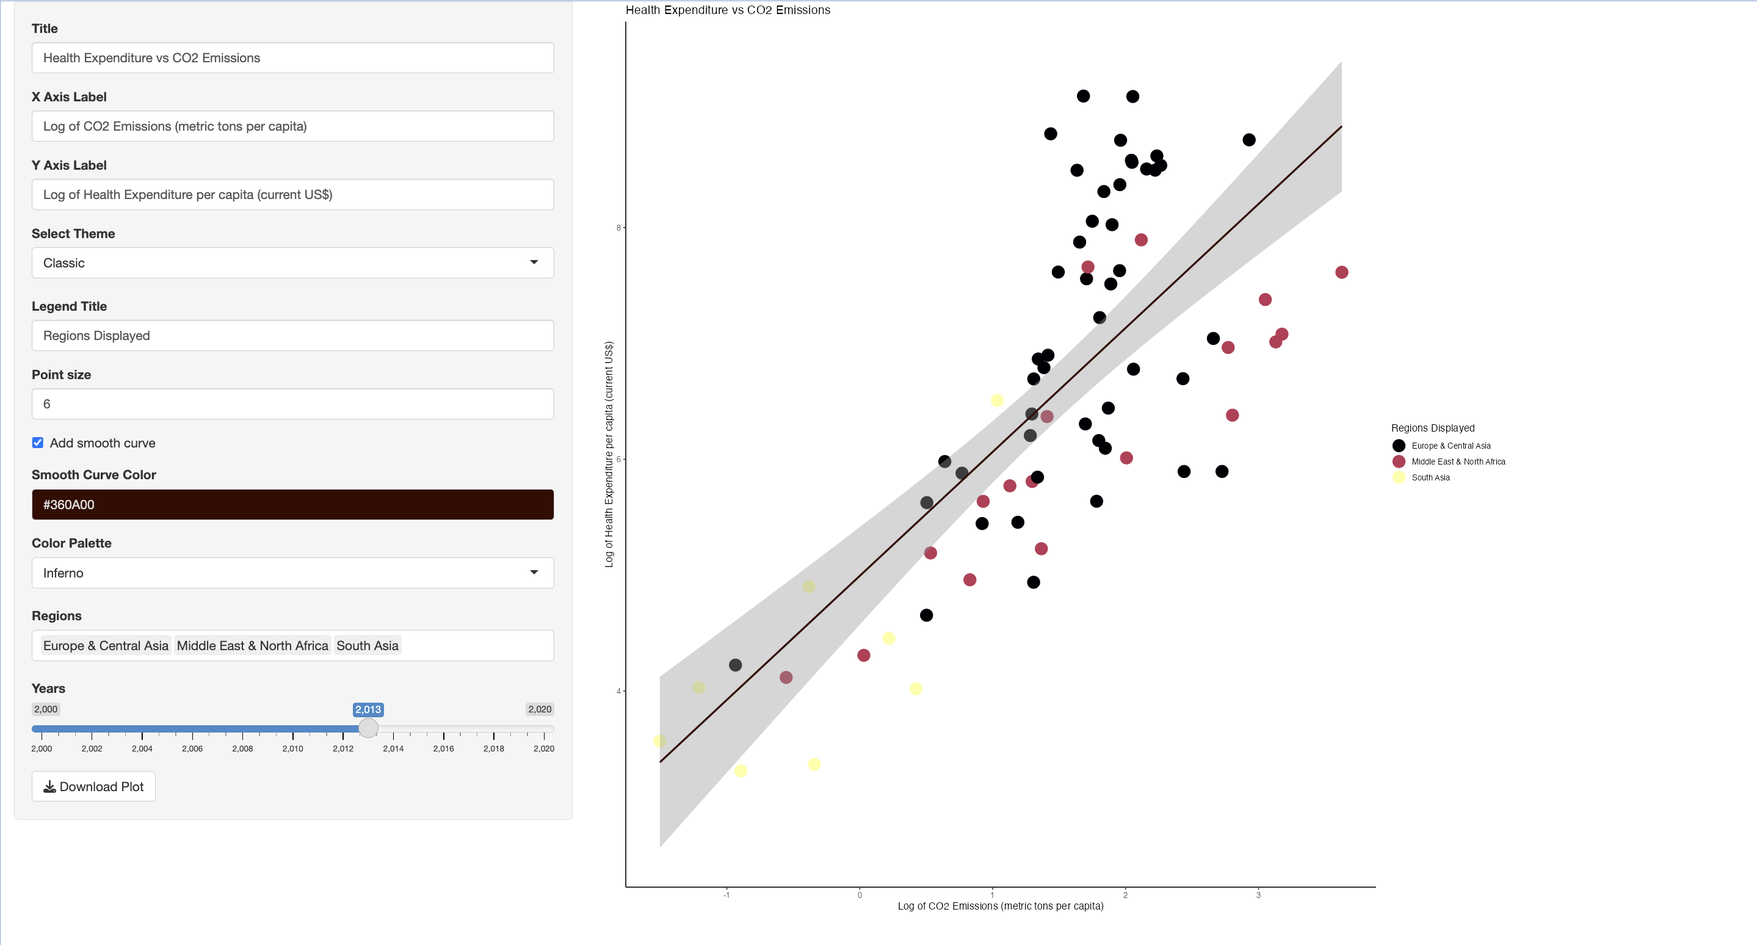
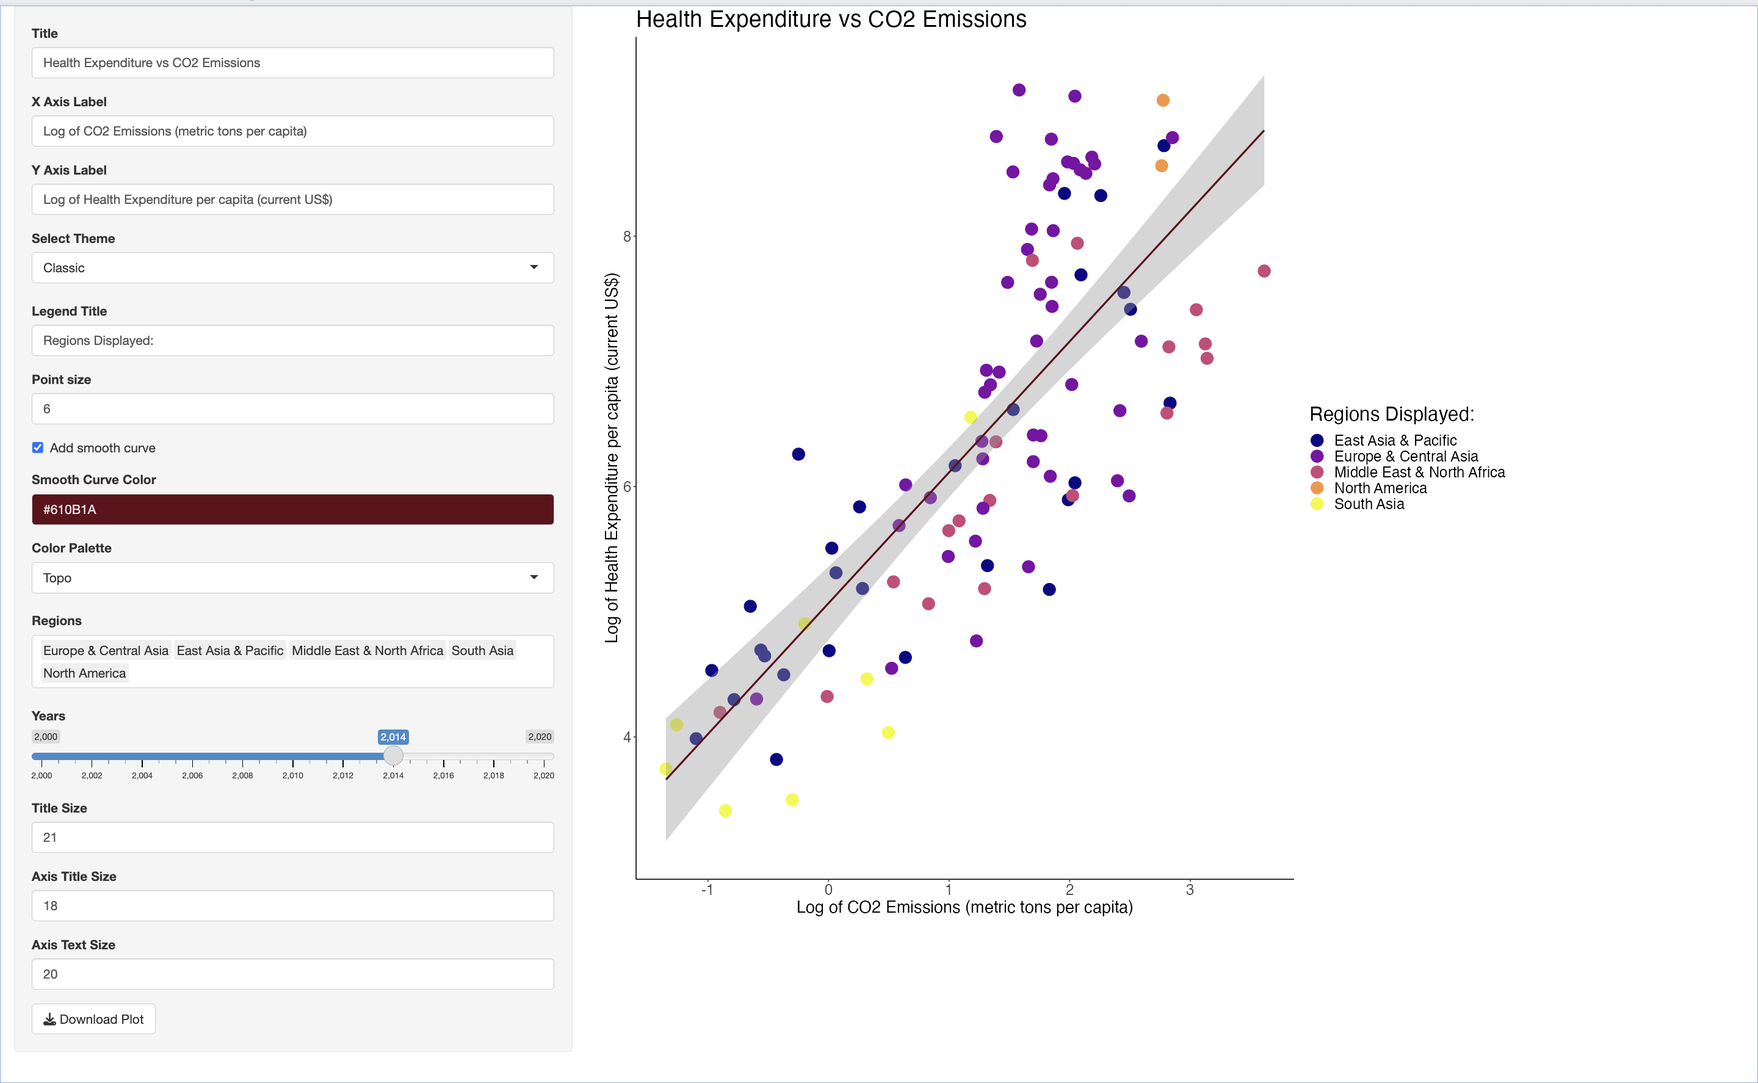
- Update of New BB
- Update advanced case
- Added some tip boxes

diff --git a/content/building-blocks/store-and-document-your-data/r-shiny/perfect-plot-shiny.md b/content/building-blocks/store-and-document-your-data/r-shiny/perfect-plot-shiny.md
@@ -13,16 +13,16 @@ aliases:
 ---
 
 ## Overview
-In this article, we explore a hands-on application of R Shiny's `reactivity` feature through a practical example: constructing live your “perfect” plot. While the concept of `reactivity` in R Shiny has been discussed in this [article](/shiny/reactivity), here we bring it to life by demonstrating how it enables the real-time creation and refinement of data visualizations. 
+In this article, we explore a hands-on application of R Shiny's `reactivity` feature through a practical example: constructing live your “perfect” plot. While the concept of `reactivity` in R Shiny has been discussed in this [article](/shiny/reactivity), here we bring it to life by demonstrating how it enables the real-time creation of data visualizations. Thereby allowing users to construct and customize their own plots live within the app.  
 
-We'll delve into the global relationship between health expenditure (per capita, in current US dollars) and CO2 emissions (metric tons per capita) using a dataset from the World Bank. Through this analysis, we aim to explore potential correlations between a nation's healthcare spending and its environmental footprint. 
+We'll walk you through a step-by-step process of building your 'perfect plot', using Shiny's responsive `widgets` like sliders, dropdowns, and color pickers. Thereby looking at adjustments of the colors, size and even themes in one go. 
 
-We'll walk you through a step-by-step process of building your 'perfect plot', using Shiny's responsive `widgets` like sliders, dropdowns, and color pickers.
+### Dataset Introduction
+We will use a dataset from the World Bank, to examine the relationship between health expenditure and CO2 emissions per country. Through this analysis, we aim to explore if there are any correlations between a nation's healthcare spending and its environmental footprint. 
 
-### Load the dataset
 {{% codeblock %}}
 ```R
-# Install the WDI package for World Bank data
+# Install the WDI package for the World Bank data
 install.packages("WDI")
 library(WDI)
 
@@ -37,41 +37,46 @@ data$year <- as.numeric(data$year)
 ```
 {{% /codeblock %}}
 
-## Adding Inputs to Modify a Plot
+## Interactive Plot Customization
 
-### Add a plot title: Text Input
-The` textInput` widget is used to create an interactive text input field in the Shiny user interface.    
+### Text Input: Personalizing Plot Titles
+The `textInput` widget is used to create an interactive text input field in the Shiny user interface.    
 Its basic syntax is `textInput(inputId, label, value)`, where: `inputId` is a unique identifier for the widget. `label` provides a descriptive label for the input field. `value` sets an initial default text within the field, which is useful for initializing your app with pre-defined settings. 
+
 
 {{% codeblock %}}
 
 ```R
-# Load ggplot2 for plotting functionalities
+# Incorporating ggplot2 for advanced plotting capabilities
 library(ggplot2)
 
-# UI setup: Includes a sidebar panel with a text input for entering the plot title
+# Structuring the UI: A sidebar panel with text input for the plot title
 ui <- fluidPage(
   sidebarLayout(
     sidebarPanel(
+      # Text input for dynamic plot title customization
       textInput("title", "Title", "Health Expenditure vs CO2 Emissions")
     ),
     mainPanel(
+      # Display area for the plot
       plotOutput("plot")
     )
   )
 )
 
-# Server logic: Reflects the entered title on the plot dynamically
+# Server-side logic: Dynamically updates the plot title based on user input
 server <- function(input, output) {
   output$plot <- renderPlot({
+    # Constructing the plot with user-defined title
     ggplot(data, aes(x = log(EN.ATM.CO2E.PC), y = log(SH.XPD.CHEX.PC.CD))) +
     geom_point() +
-    ggtitle(input$title)  # Updates the plot title based on user input
+    ggtitle(input$title)  # Reflecting the title input in the plot
   })
 }
 
-# Run the Shiny application
+# Initiating the Shiny app with defined UI and server components
 shinyApp(ui = ui, server = server)
+
 ```
 {{% /codeblock %}}
 
@@ -79,34 +84,24 @@ shinyApp(ui = ui, server = server)
 <img src = "../images/perfect-plot-1.png" width="600">
 </p>
 
-### Change the Point Size: numeric input
-The `numericInput` widget in Shiny facilitates the creation of input fields specifically for numeric values. Its syntax extends beyond that of the `textInput` widget, including additional arguments like min and max. 
-The syntax is `numericInput(inputId, label, value, min, max, step)`, where:
-- `min` and `max` define the minimum and maximum values that can be entered.
-- `step` determines the increment between each value in the input (optional).
-
-{{% tip %}}
-**Shiny's Intelligent Input Handling**
-
-Shiny's is designed to recognize the type of user input and manage it accordingly in the server-side code. This ensures that the data type of the input is maintained throughout the application. For instance, if a numeric input with the ID size is used, accessing `input$size` in the server code will automatically return a numeric value. This feature of Shiny significantly simplifies data handling and ensures type consistency.
-
-{{% /tip %}}
+### Numeric Input: Adjusting Point Sizes
+The numericInput widget in Shiny is aimed for numerical user inputs. Its syntax, `numericInput(inputId, label, value, min, max, step)`, includes parameters for setting minimum (min) and maximum (max) values, and an optional `step` parameter to define the steps between values. This widget is particularly useful for fine-tuning graphical elements like point sizes in plots.
 
 {{% codeblock %}}
 ```R
-# Inside your existing UI setup
+# Add to your existing UI setup
 sidebarPanel(
-  # Other input elements
-  numericInput("size", "Point size", value = 1, min = 1, max = 10, step = 1)  # Numeric input for adjusting point size
-  # Any other elements
+  # Numeric input for point size control
+  numericInput("size", "Point Size", value = 1, min = 1, max = 10, step = 1)
+  # Additional UI elements
 )
 
-# Inside your existing server function
+# Update your server function
 server <- function(input, output) {
   output$plot <- renderPlot({
-    # Existing plotting code
-    geom_point(size = input$size)  # Adjust point size dynamically based on input
-    # Any additional plot customization
+    # Previous plot code
+    geom_point(size = input$size)  # Dynamically adjusts point size
+    # Additional plot modifications
   })
 }
 ```
@@ -116,27 +111,30 @@ server <- function(input, output) {
 <img src = "../images/perfect-plot-2.png" width="600">
 </p>
 
-### Fit a smooth curve: checkbox input
-The `checkboxInput` widget, which is distinct in its binary nature, is limited to only two possible values: TRUE or FALSE. This widget is ideal for scenarios requiring a simple yes/no or on/off decision from the user. 
+{{% tip %}}
+**Understanding Shiny's Input Handling**
 
-The `checkboxInput` function in Shiny is used to create this widget, and it includes a `value` parameter that determines its initial state. This parameter accepts only two values: TRUE or FALSE. Setting it to TRUE means the checkbox will be checked by default when the application loads, and conversely, setting it to FALSE will leave it unchecked initially.
+Shiny's is designed to recognize the type of user input and manage it accordingly in the server-side code. This ensures that the data type of the input is maintained throughout the application. For instance, if a numeric input with the ID size is used, accessing `input$size` in the server code will automatically return a numeric value. This feature of Shiny significantly simplifies data handling and ensures type consistency.
 
-The basic syntax of the `checkboxInput` function is `checkboxInput(inputId, label, value)`.
+{{% /tip %}}
+
+### Checkbox Input: Integrating Smooth Curves
+The `checkboxInput` widget in Shiny offers a binary choice (TRUE or FALSE), making it ideal for toggle-like options in your application. The function `checkboxInput(inputId, label, value)` includes a `value` parameter that sets the initial state of the checkbox (checked or unchecked). Setting it to TRUE means the checkbox will be checked by default when the application loads, and conversely, setting it to FALSE will leave it unchecked initially.
 
 {{% codeblock %}}
 ```R
-# Inside your existing UI setup
+# In your existing UI configuration
 sidebarPanel(
-  # Other input elements
-  checkboxInput("fit", "Add smooth curve", FALSE)  # Checkbox for adding a smooth curve
+  # Checkbox for adding a smooth curve
+  checkboxInput("fit", "Add Smooth Curve", FALSE)
 )
 
-# Inside your existing server function
+# Modify your server function
 server <- function(input, output) {
   output$plot <- renderPlot({
-    # Previous plot code
+    # Base plot code
     if (input$fit) {
-      plot <- plot + geom_smooth(method = "lm")  # Adds smooth curve if checked
+      plot <- plot + geom_smooth(method = "lm")  # Conditional smooth curve addition
     }
     plot
   })
@@ -148,10 +146,11 @@ server <- function(input, output) {
 <img src = "../images/perfect-plot-3.png" width="600">
 </p>
 
-## More input types
+### Radio Buttons: Choosing Plot Colors
+Radio buttons in Shiny are ideal for offering multiple options while restricting the user to a single choice. These inputs are particularly effective in scenarios demanding exclusive selection. The radioButtons function is structured with choices to list the options and selected to define the default selection. The syntax, radioButtons(inputId, label, choices, selected), offers simplicity and clarity, ensuring a smooth user experience.
 
-### Add colours to your plot: radio buttons
-`Radio buttons` are used when you want to present multiple options to the user but require them to select only one. This input type is particularly useful for situations where the choice is exclusive and cannot be multiple.
+
+`Radio buttons` are used when you want to present multiple options to the user but restricting them to select only one. This input type is particularly useful for situations where the choice is exclusive and cannot be multiple.
 
 The `radioButtons` function includes a `choices` parameter to define the options available for selection and a `selected` argument to specify which option is selected by default. Unlike other input types, there is no value parameter; the `selected` argument serves a similar purpose, setting the initial state of the selection.
 
@@ -161,20 +160,21 @@ The basic syntax for `radioButtons` is `radioButtons(inputId, label, choices, se
 
 {{% codeblock %}}
 ```R
-# Inside your existing UI setup
+# Add to your existing UI layout
 sidebarPanel(
-  # Other input elements
-  radioButtons("color", "Point color", choices = c("blue", "red", "green", "black"))  # Radio buttons for color selection
+  # Radio buttons for choosing plot colors
+  radioButtons("color", "Point Color", choices = c("Blue", "Red", "Green", "Black"))
 )
 
-# Inside your existing server function
+# Update your server function
 server <- function(input, output) {
   output$plot <- renderPlot({
-    # Previous plot code
-    plot <- plot + geom_smooth(method = "lm", color = input$color)  # Color changes as per selection
-    plot
+    # Your ggplot code
+    # Integrating color selection in the plot
+    plot + geom_smooth(method = "lm", color = input$color)
   })
 }
+
 ```
 {{% /codeblock %}}
 
@@ -182,12 +182,18 @@ server <- function(input, output) {
 <img src = "../images/perfect-plot-4.png" width="600">
 </p>
 
-### Using Select Inputs for Extensive Choice Lists
-`Select inputs`, also known as dropdown lists, are an ideal choice in Shiny when you need to present a user with a long list of options without consuming much screen space. Unlike radio buttons which are best for limited choices due to their space requirements, select inputs neatly encapsulate numerous options within a scrollable dropdown menu.
+{{% tip %}}
+**Quick Troubleshooting for Shiny Widgets**
 
-The `selectInput` widget features the `choices` parameter to list the available options and the `selected` parameter to set the default selected option(s). A significant feature of select inputs is the `multiple` argument. When set to TRUE, it allows users to select more than one value from the list, offering flexibility for user interaction.
+- *Non-Responsive Widgets*: Ensure `inputId` is correctly referenced in the server function and reactive expressions are set up properly.
+- *Data Type Issues*: Check and correct the data type returned by widgets. Convert data types if necessary.
+- *Layout Problems*: Ensure consistent use of layout functions and consider CSS for styling.
+- D*uplicate Input IDs*: Assign unique `inputIds` to each widget to avoid overlap issues.
+  
+{{% /tip %}}
 
-The basic syntax for `selectInput` is `selectInput(inputId, label, choices, selected, multiple)`.
+### Select Inputs: Managing Lengthy Option Lists
+When dealing with a lengthy list of options, `selectInput` or dropdown lists are the most efficient choice. They conserve screen space while offering a comprehensive selection menu. This widget is versatile, allowing for single or multiple selections (controlled by the `multiple` argument). The syntax `selectInput(inputId, label, choices, selected, multiple)` makes it a flexible tool for diverse applications.
 
 {{% codeblock %}}
 ```R
@@ -212,11 +218,11 @@ server <- function(input, output) {
 <img src = "../images/perfect-plot-5.png" width="600">
 </p>
 
-### Using Slider Inputs for Numerical Value Selection in Shiny
-`Slider inputs` are widgets that allow users to select numeric values through a sliding mechanism. They serve a similar purpose to numeric inputs but offer a more interactive and visual approach to value selection. Sliders can be  effective for adjusting parameters within a specific range, such as setting thresholds, defining ranges, or filtering data.
+### Numerical Selection: Single and Range Values
+`Slider inputs` are widgets that allow users to select numeric values through a sliding mechanism. They serve a similar purpose to numeric inputs but offer a more interactive and visual approach to value selection. Sliders can be effective for adjusting parameters within a specific range, such as setting thresholds, defining ranges, or filtering data.
 
 #### Single vs. Range Value Selection with Slider Inputs
-The configuration of the slider input can vary depending on the initial value provided:
+The set up of the `sliderInput` can vary depending on the initial value provided:
 - **Single Value Selection**: If the initial value (specified in the `value` argument) is a single number, the slider is set up for selecting a single numeric value.
 - **Range Value Selection**: If the initial value is a vector of two numbers, the slider allows the selection of a range of values, represented by the two end points of the vector
 
@@ -245,20 +251,15 @@ server <- function(input, output) {
 </p>
 
 {{% tip %}}
-**Remembering Input Arguments** 
+**Exploring Shiny's Widget Options**
 
-Each input type in Shiny comes with its own set of arguments, and it can be challenging to remember all of them. To understand the available arguments for a specific input type, it's advisable to refer to the Shiny documentation or the help files associated with the input functions. 
+The `Shiny Widget Gallery` from RStudio offers a detailed overview of available input widgets in Shiny, including examples and code snippets. This resource is useful for understanding the functionality and appearance of various widgets such as text inputs, sliders, and radio buttons, which can assist in their integration into Shiny applications.
+
 {{% /tip %}}
 
-## Advanced features to improve your plot
+### Colourpicker: Enhancing Color Selection
 
-### Incorporating Color Inputs Using the Colourpicker Package
-While color inputs are not a part of the basic Shiny package, they can be integrated into Shiny applications using the `colourpicker` package. The `colourInput()` function from this package allows users to select colors interactively, adding a visually engaging element to the app. 
-
-The `colourInput()` function is straightforward to use, with its essential arguments being `inputId`, `label`, and `value`:
-- `inputId` is a unique identifier for the color input widget.
-- `label` provides a descriptive title for the color picker.
-- `value` sets the initial color, which can be specified in various formats, including English color names like "red" or "yellow".
+The `colourpicker` package enriches Shiny applications by enabling interactive color selection. The `colourInput()` function is the function to use here, providing a user-friendly color picker. It requires `inputId` for identification, `label` for description, and `value` for setting the initial color, which can be an English color name or a color code.
 
 {{% codeblock %}}
 ```R
@@ -288,10 +289,8 @@ server <- function(input, output) {
 <img src = "../images/perfect-plot-7.png" width="600">
 </p>
 
-### Tailoring Plot Appearance with Output Placeholder Functions
-In Shiny, just like input functions, `output placeholder functions` also come with various arguments that allow you to modify the appearance or behavior of the outputs. This flexibility is particularly useful when you want to customize how data visualizations or other UI elements are displayed in your app.
-
-The `plotOutput()` function, used for displaying plots in a Shiny application, includes parameters to adjust the dimensions of the plot. By default, the `height` of the plot is set to 400 pixels. However, you can easily change this using the `height` and `width` parameters within `plotOutput()`.
+### Adjusting Plot Dimensions
+Shiny's output placeholder functions, like `plotOutput()`, offer parameters to tailor the appearance of outputs. Adjusting `width` and `height` parameters allows for precise control over the dimensions of elements like plots, enhancing their visual appeal and fit within the application layout. By default, the `height` of the plot is set to 400 pixels.
 
 {{% codeblock %}}
 ```R
@@ -307,9 +306,8 @@ mainPanel(
 <img src = "../images/perfect-plot-8.png" width="600">
 </p> 
 
-### Leveraging Plotly for Interactive Data Visualization
-`Plotly`, a widely used package, is especially valued in Shiny applications for its capacity to transform static plots into interactive visualizations. `Plotly` stands out, because of its `ggplotly()` function. This function effortlessly converts a `ggplot2` plot, static visualizations in R, into an interactive format.
-
+### Plotly Integration: Bringing Plots to Life
+Integrating `Plotly` in Shiny elevates static plots to interactive visualizations. The `ggplotly()` function converts `ggplot2` plots into an interactive format, offering features like zoom, pan, and tooltips, which enhance user engagement and data exploration.
 
 To incorporate `Plotly`'s interactive capabilities into a Shiny app, you will need to make some adjustments to both the UI and server components of your application:
 - The `plotlyOutput` function in the UI defines a space for the interactive plot with specified dimensions.
@@ -337,13 +335,13 @@ server <- function(input, output) {
 </p>
 
 {{% tip %}}
-**Benefits of Interactive Plots**
+**Advantages of Interactive Plots**
 
-Interactive plots significantly enhance the user experience by allowing for dynamic engagement with the visualized data. Features like zooming, panning, tooltips, and selective viewing of plot elements make it easier for users to explore and understand complex datasets. For more information check out this [article](/plotly)
+Interactive plots in Shiny, particularly with Plotly, greatly improve user interaction, allowing for detailed data exploration through features like zooming and tooltips. To learn more, consider reading this [article](/plotly) on `Plotly`.
 
 {{% /tip %}}
 
-### Adding a Download Plot Function in Shiny 
+### Implementing Plot Downloads
 At last, now that we have a range of options to create live the "perfect" plot. It is important to use Shiny's ability for users to download the plots they interact with. In addition, this can be particularly useful for data analysis and reporting purposes. You can achieve this by implementing a `download handler`, which allows users to save the plot as an image or other file formats directly from the app.
 
 To add a download function for plots in your Shiny application, you'll need to update both the UI and server components. This involves adding a `download button` in the UI and defining the server logic to handle the plot download process.
@@ -371,17 +369,13 @@ server <- function(input, output) {
 <img src = "../images/perfect-plot-10.png" width="600">
 </p>
 
-
 {{% example %}}
-**Advanced Example**
+In this refined Shiny example, we introduce several additional features:
 
-For this example, we've integrated several widgets to elevate the user interaction and visualization customization. 
-
-We introduced a color theme selector, greatly enhancing the visual distinction of regions within the scatter plot. This feature allows users to choose from a variety of color palettes, making the data more interpretable and visually appealing.
-
-Additionally, we incorporated a theme selector, offering options like 'Minimal', 'Classic', 'Light', and 'Dark'. This selector empowers users to change the overall aesthetic of the plot, catering to diverse preferences and enhancing readability under different viewing conditions.
-
-To further tailor the visualization, we added new textInput fields for X and Y-axis labels. These inputs enable users to provide custom, descriptive labels for the axes, thereby making the plots more informative and contextually relevant.
+- **Color Theme Selector**: Users can now choose from a range of color palettes, each offering a unique visual perspective, thereby enhancing plot clarity and appeal.
+- **Plot Theme Selector**: We've added a selector with themes like 'Minimal', 'Classic', 'Light', and 'Dark'. This feature gives the flexibility to adjust the overall look of the plot
+- **Custom Axis Labels**: New `textInput` fields have been integrated for X and Y-axis labels. This addition allows users to input descriptive, context-specific titles for axes, making the plots more informative.
+  
 
 {{% /example %}}
 
@@ -397,6 +391,13 @@ To further tailor the visualization, we added new textInput fields for X and Y-a
 <p align = "center">
 <img src = "../images/perfect-plot-11.png" width="750">
 </p>
+
+{{% tip %}}
+**Usage of the example code**
+
+Consider our Shiny example as a template for your real-time data visualization. While we've covered a variety of real-time plot customization techniques, remember, this is just your starting point. Shiny offers a range of additional features and widgets. Use this code to experiment and expand, adding complexity and sophistication to your applications for any purpose, be it personal, educational, or professional. 
+
+{{% /tip %}}
 
 {{% summary %}}
 
